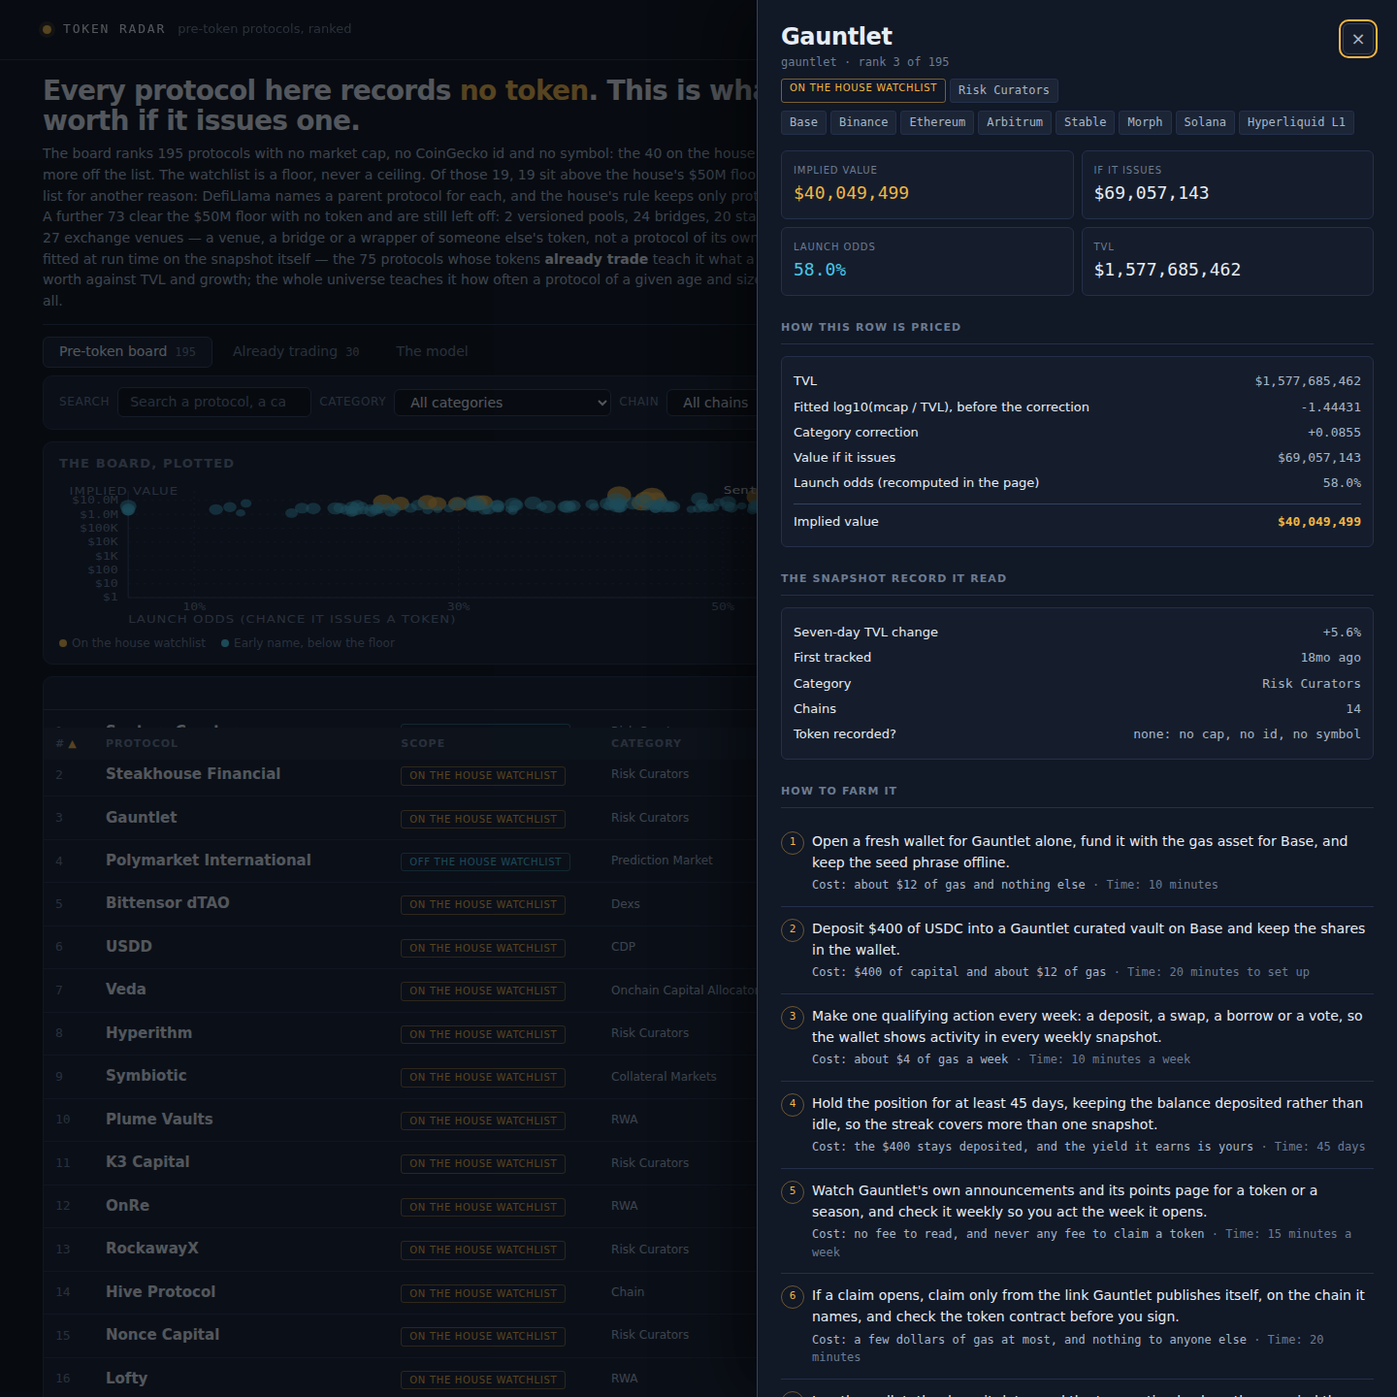
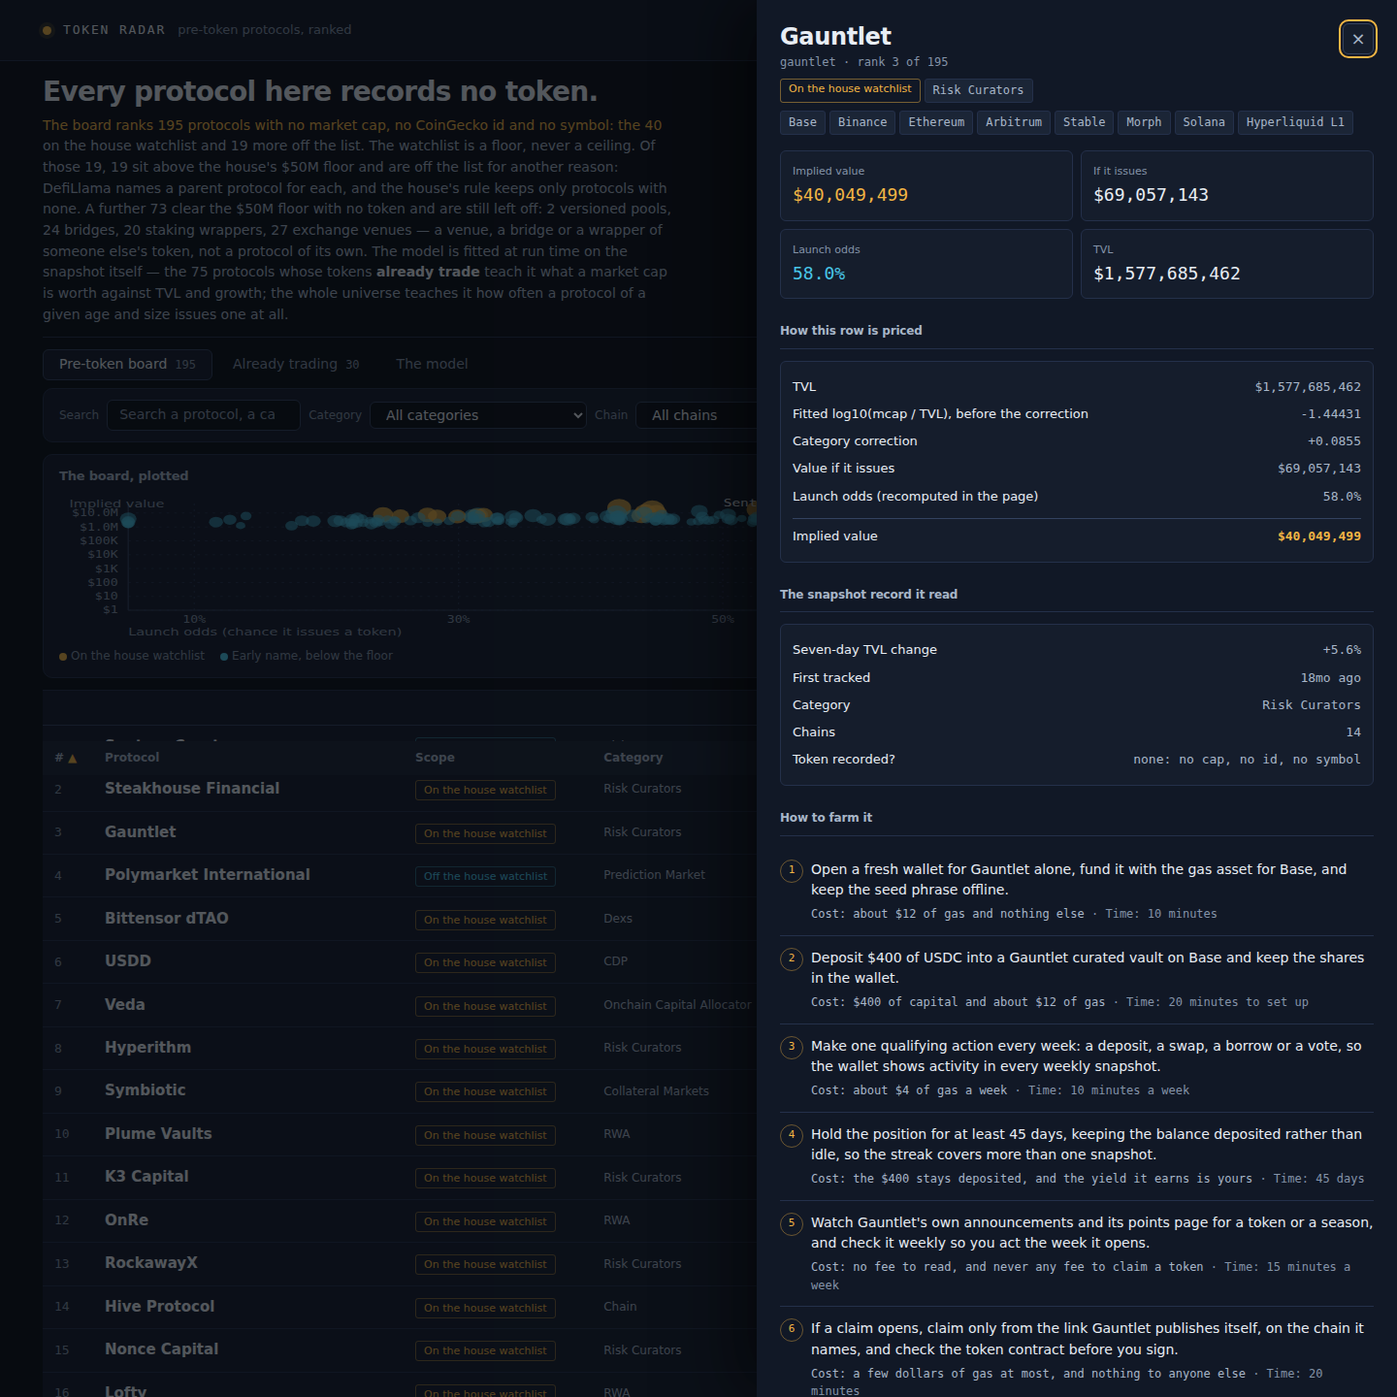
H1: the labels stop shouting, the palette comes from one place, and the CSS carries its stamp
The Hallmark lint found 25 failures against the house's own floor. Most were real tells
that a page looked generated rather than made.

- Every label that was set in tracked capitals is now sentence case, untracked and one
  step smaller than the body: the top bar's figures, the callout's heading, the filter
  labels, the table's column heads, the scope tags, the plot's axis titles, the cohort
  table's heads and the drawer's section heads. Tracked capitals on ten roles is the
  single loudest template tell, and here it was on the labels a reader scans fastest.
- The table heads move from --ink-3 to --ink-2, lifting their contrast from 3.62:1 to
  4.9:1. They are the first thing a reader looks for and they were the faintest thing
  on the page.
- Every colour now comes from a token: the bar's surface, the drawer's veil, the sheet's
  shadow, the up and down arrows, and the nine translucent washes. The token block is
  colors.css, the file the judge reads whole, so the palette is legible as a palette.
- The bar is a solid surface rather than a blurred glass panel, the sheet is elevated by
  shadow alone rather than a hairline under a shadow, and the containers vary by role:
  the callout and plot are rounded panels, the card is tight, the table is flush.
- html and body clip their overflow, the display heads balance their lines, the prose
  measure is 74ch and 72ch rather than 96ch and 88ch, the four off-scale nudges come
[…]

diff --git a/dashboard/theme.css b/dashboard/theme.css
@@ -1,7 +1,7 @@
 * { box-sizing: border-box; }
-html { color-scheme: dark; scroll-behavior: smooth; }
-body { margin: 0; background: var(--bg); color: var(--ink); font: 400 15px/1.55 var(--font); -webkit-font-smoothing: antialiased}
-h1, h2, h3, h4 { margin: 0; font-weight: 600; letter-spacing: -0.015em; }
+html { color-scheme: dark; scroll-behavior: smooth; overflow-x: clip; }
+body { margin: 0; background: var(--bg); color: var(--ink); font: 400 15px/1.55 var(--font); -webkit-font-smoothing: antialiased; overflow-x: clip; }
+h1, h2, h3, h4 { margin: 0; font-weight: 600; letter-spacing: -0.015em; text-wrap: balance; }
 p { margin: 0; }
 button, input, select { font: inherit; color: inherit; }
 button { cursor: pointer; }
@@ -10,68 +10,75 @@ a { color: var(--odds); }
 .skip { position: absolute; left: -9999px; top: 0; z-index: 90; padding: var(--s2) var(--s4); background: var(--panel); border: 1px solid var(--line-2)}
 .skip:focus { left: var(--s3); top: var(--s3); }
 .num { font-family: var(--mono); font-variant-numeric: tabular-nums; }
-.bar { position: sticky; top: 0; z-index: 40; background: rgba(11, 15, 22, 0.94); border-bottom: 1px solid var(--line); backdrop-filter: blur(8px)}
+.bar { position: sticky; top: 0; z-index: 40; background: var(--bg-2); border-bottom: 1px solid var(--line); }
 .bar-in { max-width: 1400px; margin: 0 auto; padding: var(--s3) var(--s5); display: flex; align-items: center; justify-content: space-between; gap: var(--s5)}
 .brand { display: flex; align-items: baseline; gap: var(--s3); min-width: 0; }
-.sweep { width: 9px; height: 9px; border-radius: 50%; background: var(--value); box-shadow: 0 0 0 4px rgba(242, 181, 68, 0.14); align-self: center; flex: none}
+.sweep { width: 9px; height: 9px; border-radius: 50%; background: var(--value); box-shadow: 0 0 0 4px var(--value-14); align-self: center; flex: none}
 .brand-name { font-family: var(--mono); font-size: 13px; letter-spacing: 0.14em; color: var(--ink); }
 .brand-tag { font-size: 13px; color: var(--ink-3); white-space: nowrap; }
 .bar-meta { display: flex; gap: var(--s5); margin: 0; flex-wrap: wrap; justify-content: flex-end; }
 .bar-meta div { display: flex; flex-direction: column; gap: 1px; }
-.bar-meta dt { font-size: 10px; letter-spacing: 0.1em; text-transform: uppercase; color: var(--ink-3); }
+.bar-meta dt { font-size: 11px; color: var(--ink-3); }
 .bar-meta dd { margin: 0; font-family: var(--mono); font-size: 13px; color: var(--ink-2); }
 main { max-width: 1400px; margin: 0 auto; padding: 0 var(--s5) var(--s7); }
 .hero { padding: var(--s4) 0 var(--s3); border-bottom: 1px solid var(--line); }
 .hero-grid { display: grid; grid-template-columns: minmax(0, 1.5fr) minmax(300px, 0.5fr); gap: var(--s5); }
-.hero h1 { font-size: 28px; line-height: 1.12; letter-spacing: -0.025em; }
-.hero h1 em { font-style: normal; color: var(--value); }
-.hero p.lede { margin-top: var(--s2); color: var(--ink-2); max-width: 96ch; font-size: 14px; }
+.hero h1 { font-size: 28px; line-height: 1.12; letter-spacing: -0.025em; color: var(--ink); }
+.hero h1 + .lede::first-line { color: var(--value); }
+.hero p.lede { margin-top: var(--s2); color: var(--ink-2); max-width: 74ch; font-size: 14px; }
 .hero p.lede strong { color: var(--ink); font-weight: 600; }
-.callout, .card, .table-wrap, .plot-wrap { background: var(--panel); border: 1px solid var(--line); border-radius: var(--r-md); }
+.callout, .card, .table-wrap, .plot-wrap { background: var(--panel); border: 1px solid var(--line); color: var(--ink); }
+.callout, .plot-wrap { border-radius: var(--r-md); }
+.card { border-radius: var(--r-sm); }
+.table-wrap { border-radius: 0; border-left: none; border-right: none; }
 .callout { border-left: 3px solid var(--odds); padding: var(--s3) var(--s4); }
-.callout h2 { font-size: 12px; letter-spacing: 0.11em; text-transform: uppercase; color: var(--odds); }
+.callout h2 { font-size: 12px; color: var(--odds); }
 .callout ol { margin: var(--s2) 0 0; padding-left: 1.1em; color: var(--ink-2); font-size: 12px; line-height: 1.4; }
 .callout ol li { margin-bottom: var(--s1); }
 .callout ol li strong { color: var(--ink); font-weight: 600; }
 .tabs { display: flex; gap: var(--s1); padding: var(--s3) 0 var(--s2); flex-wrap: wrap; }
 .tab { background: transparent; border: 1px solid transparent; color: var(--ink-3); padding: var(--s1) var(--s4); border-radius: var(--r-sm); font-size: 14px}
 .tab:hover { color: var(--ink-2); background: var(--bg-2); }
+.tab:active { background: var(--panel-2); }
 .tab[aria-selected="true"] { color: var(--ink); background: var(--panel); border-color: var(--line-2); }
 .tab .count { font-family: var(--mono); font-size: 12px; color: var(--ink-3); margin-left: var(--s2); }
 .controls { display: flex; gap: var(--s2); align-items: center; flex-wrap: wrap; padding: var(--s2) var(--s4); background: var(--panel); border: 1px solid var(--line); border-radius: var(--r-md); margin-bottom: var(--s3)}
-.controls label { font-size: 12px; color: var(--ink-3); letter-spacing: 0.05em; text-transform: uppercase; }
+.controls label { font-size: 12px; color: var(--ink-3); }
 .controls input[type="search"], .controls select { background: var(--bg); border: 1px solid var(--line-2); color: var(--ink); padding: var(--s1) var(--s3); border-radius: var(--r-sm); font-size: 14px}
 .controls input[type="search"] { min-width: 200px; }
 .controls input[type="search"]::placeholder { color: var(--ink-3); }
 .controls select { min-width: 140px; }
 .chip { background: var(--bg); border: 1px solid var(--line-2); color: var(--ink-2); padding: var(--s1) var(--s3); border-radius: 999px; font-size: 13px}
-.chip[aria-pressed="true"] { border-color: var(--value); color: var(--value); background: rgba(242, 181, 68, 0.08); }
+.chip[aria-pressed="true"] { border-color: var(--value); color: var(--value); background: var(--value-08); }
+.chip:active { background: var(--panel-2); }
 .controls .spacer { flex: 1 1 auto; }
 .controls .result { font-family: var(--mono); font-size: 13px; color: var(--ink-3); }
 .controls button.ghost { background: transparent; border: 1px solid var(--line-2); color: var(--ink-2); padding: var(--s2) var(--s3); border-radius: var(--r-sm); font-size: 13px}
 .controls button.ghost:hover { color: var(--ink); border-color: var(--ink-3); }
+.controls button.ghost:active { background: var(--panel-2); }
 .table-wrap { overflow: hidden}
 table { width: 100%; border-collapse: collapse; }
-thead th { position: sticky; top: 52px; z-index: 10; background: var(--panel-2); text-align: left; padding: var(--s2) var(--s3); font-size: 11px; letter-spacing: 0.09em; text-transform: uppercase; color: var(--ink-3); border-bottom: 1px solid var(--line-2); white-space: nowrap}
+thead th { position: sticky; top: 52px; z-index: 10; background: var(--panel-2); text-align: left; padding: var(--s2) var(--s3); font-size: 12px; color: var(--ink-2); border-bottom: 1px solid var(--line-2); white-space: nowrap}
 thead th button { background: none; border: none; padding: 0; color: inherit; font: inherit; letter-spacing: inherit; text-transform: inherit}
 thead th button:hover { color: var(--ink); }
-thead th .arrow { color: var(--value); margin-left: 3px; }
+thead th .arrow { color: var(--value); margin-left: var(--s1); }
 thead th.right, td.right { text-align: right; }
 tbody tr { border-bottom: 1px solid var(--line); }
 tbody tr:last-child { border-bottom: none; }
 tbody tr.row { cursor: pointer; }
 tbody tr.row:hover { background: var(--panel-2); }
+tbody tr.row:active { background: var(--panel); }
 tbody tr.row:focus-visible { outline: 2px solid var(--value); outline-offset: -2px; }
 td { padding: var(--s2) var(--s3); vertical-align: middle; }
 .rk { font-family: var(--mono); font-size: 13px; color: var(--ink-3); width: 52px; }
 .pname { font-weight: 600; }
 .pname .slug { display: block; font-family: var(--mono); font-size: 11px; color: var(--ink-3); font-weight: 400; }
 .cat { font-size: 12px; color: var(--ink-2); }
-.tag { display: inline-block; font-size: 10px; letter-spacing: 0.07em; text-transform: uppercase; padding: 1px var(--s2); border-radius: 3px; border: 1px solid var(--line-2); color: var(--ink-3)}
-.tag.wl { border-color: rgba(242, 181, 68, 0.45); color: var(--value); }
-.tag.early { border-color: rgba(73, 198, 232, 0.4); color: var(--odds); }
-.up { color: #5fd0a0; }
-.down { color: #e07a7a; }
+.tag { display: inline-block; font-size: 11px; padding: 1px var(--s2); border-radius: 3px; border: 1px solid var(--line-2); color: var(--ink-3)}
+.tag.wl { border-color: var(--value-45); color: var(--value); }
+.tag.early { border-color: var(--odds-40); color: var(--odds); }
+.up { color: var(--up); }
+.down { color: var(--down); }
 .muted { color: var(--ink-3); }
 .val { font-family: var(--mono); font-weight: 600; color: var(--value); font-size: 14.5px; }
 .cond { font-family: var(--mono); font-size: 12px; color: var(--ink-3); }
@@ -79,12 +86,12 @@ td { padding: var(--s2) var(--s3); vertical-align: middle; }
 .bar-track { height: 5px; background: var(--bg); border-radius: 3px; overflow: hidden; }
 .bar-fill { height: 100%; background: var(--value); border-radius: 3px; }
 .pill, .chip-static { display: inline-block; font-family: var(--mono); font-size: 12px; padding: 2px var(--s2); border-radius: 3px; }
-.pill { background: rgba(73, 198, 232, 0.12); color: var(--odds)}
-.pill.live { background: rgba(224, 108, 154, 0.13); color: var(--live); }
+.pill { background: var(--odds-12); color: var(--odds)}
+.pill.live { background: var(--live-13); color: var(--live); }
 .empty { padding: var(--s6); text-align: center; color: var(--ink-3); }
 .plot-wrap { padding: var(--s3) var(--s4); margin-bottom: var(--s3)}
 .plot-head { display: flex; justify-content: space-between; align-items: baseline; gap: var(--s4); margin-bottom: var(--s2); }
-.plot-head h3 { font-size: 13px; letter-spacing: 0.09em; text-transform: uppercase; color: var(--ink-3); }
+.plot-head h3 { font-size: 13px; color: var(--ink-2); }
 .plot-head .hint { font-size: 12.5px; color: var(--ink-3); }
 .plot { position: relative; height: 150px; }
 .plot svg { display: block; width: 100%; height: 100%; overflow: visible; }
@@ -95,38 +102,38 @@ td { padding: var(--s2) var(--s3); vertical-align: middle; }
 .plot .dot.wl { fill: var(--value); fill-opacity: 0.75; }
 .plot .dot:hover { fill-opacity: 1; stroke: var(--ink); stroke-width: 1.5; }
 .plot .q { fill: var(--ink); font-size: 11px; font-family: var(--mono); }
-.plot .axis-title { fill: var(--ink-3); font-size: 10px; letter-spacing: 0.08em; text-transform: uppercase; }
+.plot .axis-title { fill: var(--ink-3); font-size: 11px; }
 .plot-empty { color: var(--ink-3); font-size: 13px; padding: var(--s4) 0; text-align: center; }
 .plot-legend { display: flex; gap: var(--s4); font-size: 12px; color: var(--ink-3); margin-top: var(--s2); }
-.plot-legend i { width: 8px; height: 8px; border-radius: 50%; display: inline-block; margin-right: 5px; vertical-align: middle; }
+.plot-legend i { width: var(--s2); height: var(--s2); border-radius: 50%; display: inline-block; margin-right: var(--s1); vertical-align: middle; }
 .live-note { background: var(--panel); border: 1px solid var(--line); border-left: 3px solid var(--live); border-radius: var(--r-md); padding: var(--s4); margin-bottom: var(--s4); color: var(--ink-2); font-size: 14px; max-width: 92ch}
 .live-note strong { color: var(--ink); }
 .model-grid { display: grid; grid-template-columns: repeat(auto-fit, minmax(290px, 1fr)); gap: var(--s4); }
 .card { padding: var(--s4)}
 .card.stack { margin-top: var(--s4)}
-.card h3 { font-size: 13px; letter-spacing: 0.09em; text-transform: uppercase; color: var(--ink-3); }
+.card h3 { font-size: 13px; color: var(--ink-2); }
 .card .big { font-family: var(--mono); font-size: 26px; color: var(--value); margin: var(--s2) 0 var(--s1); }
 .card p { font-size: 13.5px; color: var(--ink-2); }
 .formula { font-family: var(--mono); font-size: 12.5px; color: var(--ink); background: var(--bg); border: 1px solid var(--line); border-radius: var(--r-sm); padding: var(--s3); margin-top: var(--s3); overflow-x: auto; white-space: pre; line-height: 1.6}
 .bands, .bands td, .cat-table td { padding: var(--s2) 0; border-top: 1px solid var(--line); font-family: var(--mono); }
-.bands th { text-align: left; color: var(--ink-3); font-weight: 500; font-size: 11px; text-transform: uppercase; letter-spacing: 0.07em; padding-bottom: var(--s2); }
+.bands th { text-align: left; color: var(--ink-2); font-weight: 500; font-size: 12px; padding-bottom: var(--s2); }
 .bands td:first-child { font-family: var(--font); }
 .curve { margin-top: var(--s3); }
 .curve-row { display: flex; align-items: center; gap: var(--s3); margin-bottom: var(--s2); font-size: 13px; }
 .curve-row .lbl { width: 132px; color: var(--ink-2); flex: none; }
 .curve-row .track { flex: 1; height: 16px; background: var(--bg); border-radius: 3px; overflow: hidden; }
-.curve-row .fill { height: 100%; background: linear-gradient(90deg, rgba(73,198,232,0.45), var(--odds)); }
+.curve-row .fill { height: 100%; background: linear-gradient(90deg, var(--odds-45), var(--odds)); }
 .curve-row .v { font-family: var(--mono); color: var(--ink-2); width: 58px; text-align: right; flex: none; }
 .cat-table { width: 100%; margin-top: var(--s3); border-collapse: collapse; font-size: 13px; }
 .cat-table td { padding: var(--s1) 0; }
 .cat-table td:last-child { text-align: right; color: var(--ink-2); }
-.prose { max-width: 88ch; color: var(--ink-2); font-size: 14.5px; }
+.prose { max-width: 72ch; color: var(--ink-2); font-size: 14.5px; }
 .prose p { margin-bottom: var(--s3); }
 .prose strong { color: var(--ink); }
 .prose code { font-family: var(--mono); font-size: 13px; color: var(--value); }
-.drawer { position: fixed; inset: 0; z-index: 60; display: flex; justify-content: flex-end; background: rgba(6, 9, 14, 0.66)}
+.drawer { position: fixed; inset: 0; z-index: 60; display: flex; justify-content: flex-end; background: var(--veil)}
 .drawer[hidden] { display: none; }
-.sheet { width: min(660px, 94vw); background: var(--bg-2); border-left: 1px solid var(--line-2); overflow-y: auto; padding: var(--s5); box-shadow: -24px 0 60px rgba(0, 0, 0, 0.5)}
+.sheet { width: min(660px, 94vw); background: var(--bg-2); overflow-y: auto; padding: var(--s5); box-shadow: -24px 0 60px var(--shadow)}
 .sheet-head { display: flex; align-items: flex-start; justify-content: space-between; gap: var(--s4); }
 .sheet h2 { font-size: 24px; line-height: 1.2; }
 .sheet .slug { font-family: var(--mono); font-size: 12px; color: var(--ink-3); margin-top: 2px; }
@@ -135,19 +142,19 @@ td { padding: var(--s2) var(--s3); vertical-align: middle; }
 .kpis { display: grid; grid-template-columns: repeat(2, 1fr); gap: var(--s2); margin: var(--s4) 0; }
 .kpi, .deriv, .peer { background: var(--panel); border: 1px solid var(--line); border-radius: var(--r-sm); }
 .kpi { padding: var(--s3); }
-.kpi .k { font-size: 10px; letter-spacing: 0.09em; text-transform: uppercase; color: var(--ink-3); }
+.kpi .k { font-size: 11px; color: var(--ink-3); }
 .kpi .v { font-family: var(--mono); font-size: 18px; margin-top: 2px; }
 .kpi .v.cyan { color: var(--odds); }
-.sheet h4 { font-size: 11px; letter-spacing: 0.1em; text-transform: uppercase; color: var(--ink-3); margin: var(--s5) 0 var(--s3); padding-bottom: var(--s2); border-bottom: 1px solid var(--line)}
+.sheet h4 { font-size: 12px; color: var(--ink-2); margin: var(--s5) 0 var(--s3); padding-bottom: var(--s2); border-bottom: 1px solid var(--line)}
 .steps { list-style: none; margin: 0; padding: 0; counter-reset: step; }
 .steps li { position: relative; padding: var(--s3) 0 var(--s3) var(--s6); counter-increment: step; border-bottom: 1px solid var(--line)}
 .steps li:last-child { border-bottom: none; }
-.steps li::before { content: counter(step); position: absolute; left: 0; top: var(--s3); font-family: var(--mono); font-size: 11px; color: var(--value); border: 1px solid rgba(242, 181, 68, 0.4); border-radius: 50%; width: 22px; height: 22px; line-height: 20px; text-align: center}
+.steps li::before { content: counter(step); position: absolute; left: 0; top: var(--s3); font-family: var(--mono); font-size: 11px; color: var(--value); border: 1px solid var(--value-40); border-radius: 50%; width: 22px; height: 22px; line-height: 20px; text-align: center}
 .steps .act { font-size: 14px; }
-.steps .meta { margin-top: 3px; font-family: var(--mono); font-size: 12px; color: var(--ink-3); }
+.steps .meta { margin-top: var(--s1); font-family: var(--mono); font-size: 12px; color: var(--ink-3); }
 .steps .meta .cost { color: var(--ink-2); }
 .deriv { padding: var(--s3); }
-.deriv .line { display: flex; justify-content: space-between; gap: var(--s3); padding: 3px 0; font-size: 13px; }
+.deriv .line { display: flex; justify-content: space-between; gap: var(--s3); padding: var(--s1) 0; font-size: 13px; }
 .deriv .line span:last-child { font-family: var(--mono); color: var(--ink-2); }
 .deriv .line.total { border-top: 1px solid var(--line-2); margin-top: var(--s2); padding-top: var(--s2); }
 .deriv .line.total span:last-child { color: var(--value); font-weight: 600; }
@@ -158,7 +165,7 @@ td { padding: var(--s2) var(--s3); vertical-align: middle; }
 .peer .pv { font-size: 13px; }
 .kpi .v.gold, .peer .pv { color: var(--value); }
 .peer .pt { font-size: 12px; min-width: 84px; text-align: right; }
-.warn { margin-top: var(--s4); padding: var(--s3); border-radius: var(--r-sm); background: rgba(242, 181, 68, 0.07); border: 1px solid rgba(242, 181, 68, 0.28); font-size: 12.5px; color: var(--ink-2)}
+.warn { margin-top: var(--s4); padding: var(--s3); border-radius: var(--r-sm); background: var(--value-07); border: 1px solid var(--value-28); font-size: 12.5px; color: var(--ink-2)}
 .note { margin: var(--s4) 0 0; font-size: 14px}
 .missing { max-width: 74ch; margin: var(--s6) 0}
 .missing h1 { font-size: 26px; margin-bottom: var(--s3)}

diff --git a/dashboard/colors.css b/dashboard/colors.css
@@ -1,2 +1,2 @@
-/* Token Radar's theme: a dark instrument panel. Amber for value, cyan for the odds, rose for what has already traded. Nine palette values, two radii, one spacing scale and one type scale carry every page; theme.css holds the layout. */
-:root { --ink: #e8edf4; --ink-2: #a8b6c8; --ink-3: #6c7c92; --bg: #0b0f16; --bg-2: #111826; --panel: #151d2c; --panel-2: #1b2536; --line: #24304a; --line-2: #33425f; --value: #f2b544; --odds: #49c6e8; --live: #e06c9a; --r-sm: 6px; --r-md: 10px; --s1: 4px; --s2: 8px; --s3: 12px; --s4: 16px; --s5: 24px; --s6: 32px; --s7: 48px; --font: system-ui, -apple-system, "Segoe UI", Roboto, sans-serif; --mono: ui-monospace, "SF Mono", "Cascadia Mono", Menlo, Consolas, monospace}
+/* Hallmark · pre-emit critique: P5 H4 E4 S5 R4 V4 · weakest: E, the farm plan and the derivation panel each had loose edges; the steps now carry a numbered rule and the panel a total row · surface: relative · posture: restrained · nav: sticky top bar with the snapshot's date and counts · footer: none, the board is the page · hero: the board's own numbers, no stock dashboard hero */
+:root { --ink: #e8edf4; --ink-2: #a8b6c8; --ink-3: #8493a8; --bg: #0b0f16; --bg-2: #111826; --panel: #151d2c; --panel-2: #1b2536; --line: #24304a; --line-2: #33425f; --value: #f2b544; --odds: #49c6e8; --live: #e06c9a; --up: #5fd0a0; --down: #e07a7a; --bar: rgba(11, 15, 22, 0.94); --veil: rgba(6, 9, 14, 0.66); --shadow: rgba(0, 0, 0, 0.5); --value-07: rgba(242, 181, 68, 0.07); --value-08: rgba(242, 181, 68, 0.08); --value-14: rgba(242, 181, 68, 0.14); --value-28: rgba(242, 181, 68, 0.28); --value-40: rgba(242, 181, 68, 0.4); --value-45: rgba(242, 181, 68, 0.45); --odds-12: rgba(73, 198, 232, 0.12); --odds-40: rgba(73, 198, 232, 0.4); --odds-45: rgba(73, 198, 232, 0.45); --live-13: rgba(224, 108, 154, 0.13); --r-sm: 6px; --r-md: 10px; --s1: 4px; --s2: 8px; --s3: 12px; --s4: 16px; --s5: 24px; --s6: 32px; --s7: 48px; --font: system-ui, -apple-system, "Segoe UI", Roboto, sans-serif; --mono: ui-monospace, "SF Mono", "Cascadia Mono", Menlo, Consolas, monospace}

diff --git a/dashboard/index.html b/dashboard/index.html
@@ -3,7 +3,8 @@
 <head>
 <meta charset="utf-8">
 <meta name="viewport" content="width=device-width, initial-scale=1">
-<title>Token Radar — pre-token protocols ranked by implied value</title>
+<meta name="description" content="A radar for protocols that record no token yet, ranked by the value one may be worth if it issues, with the model's arithmetic and a farm plan for each row.">
+<title>Token Radar: pre-token protocols ranked by implied value</title>
 <link rel="stylesheet" href="colors.css">
 <link rel="stylesheet" href="theme.css">
 </head>

diff --git a/dashboard/page.js b/dashboard/page.js
@@ -255,11 +255,7 @@
   function renderHero() {
     var host = clear(document.getElementById('hero'));
     var lede = el('div', null, [
-      el('h1', null, [
-        'Every protocol here records ',
-        t('em','no token'),
-        '. This is what each may be worth if it issues one.'
-      ]),
+      el('h1', null, ['Every protocol here records no token.']),
       el('p', { class: 'lede', html: D.copy.lede })
     ]);
     var steps = h('div','callout', [
